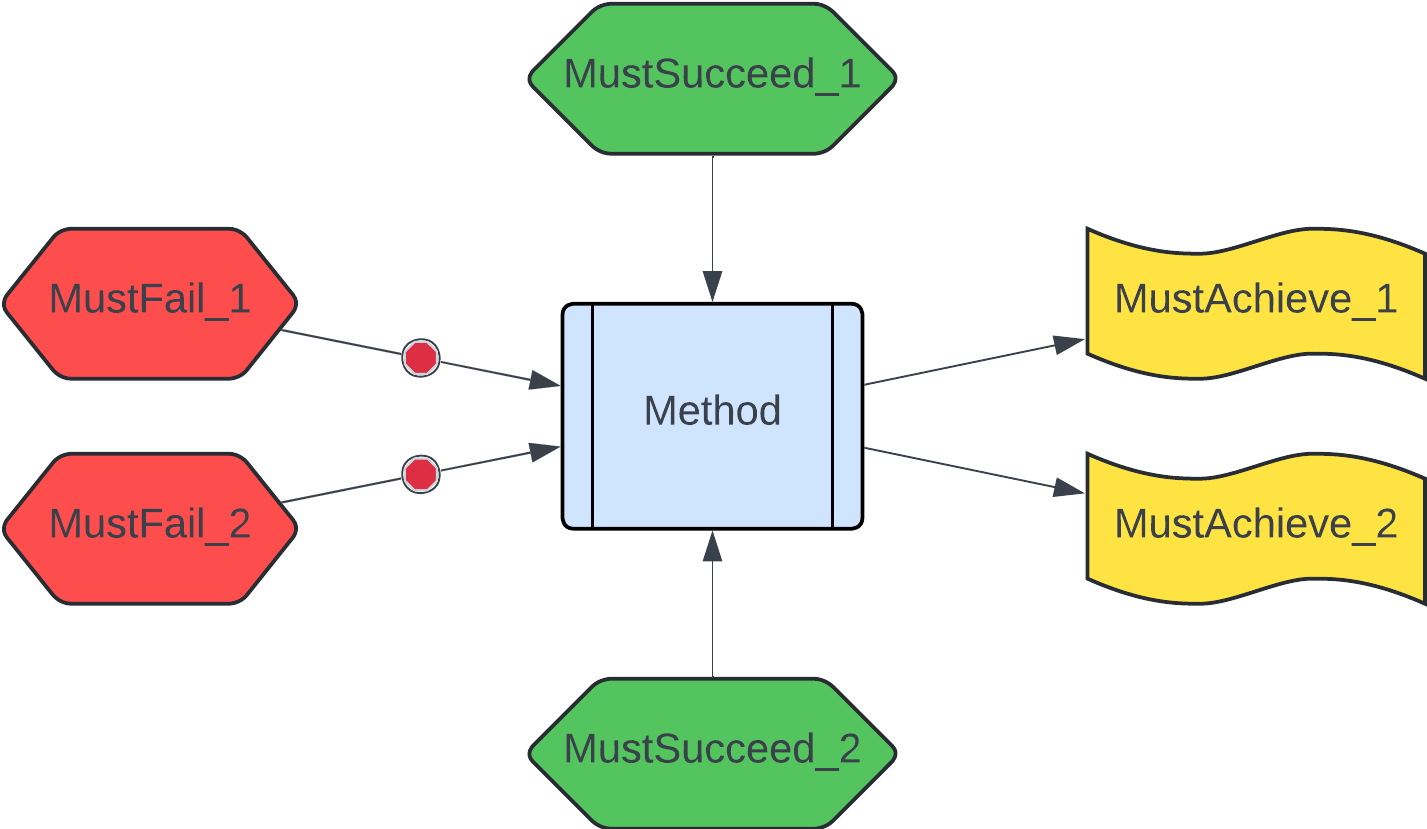
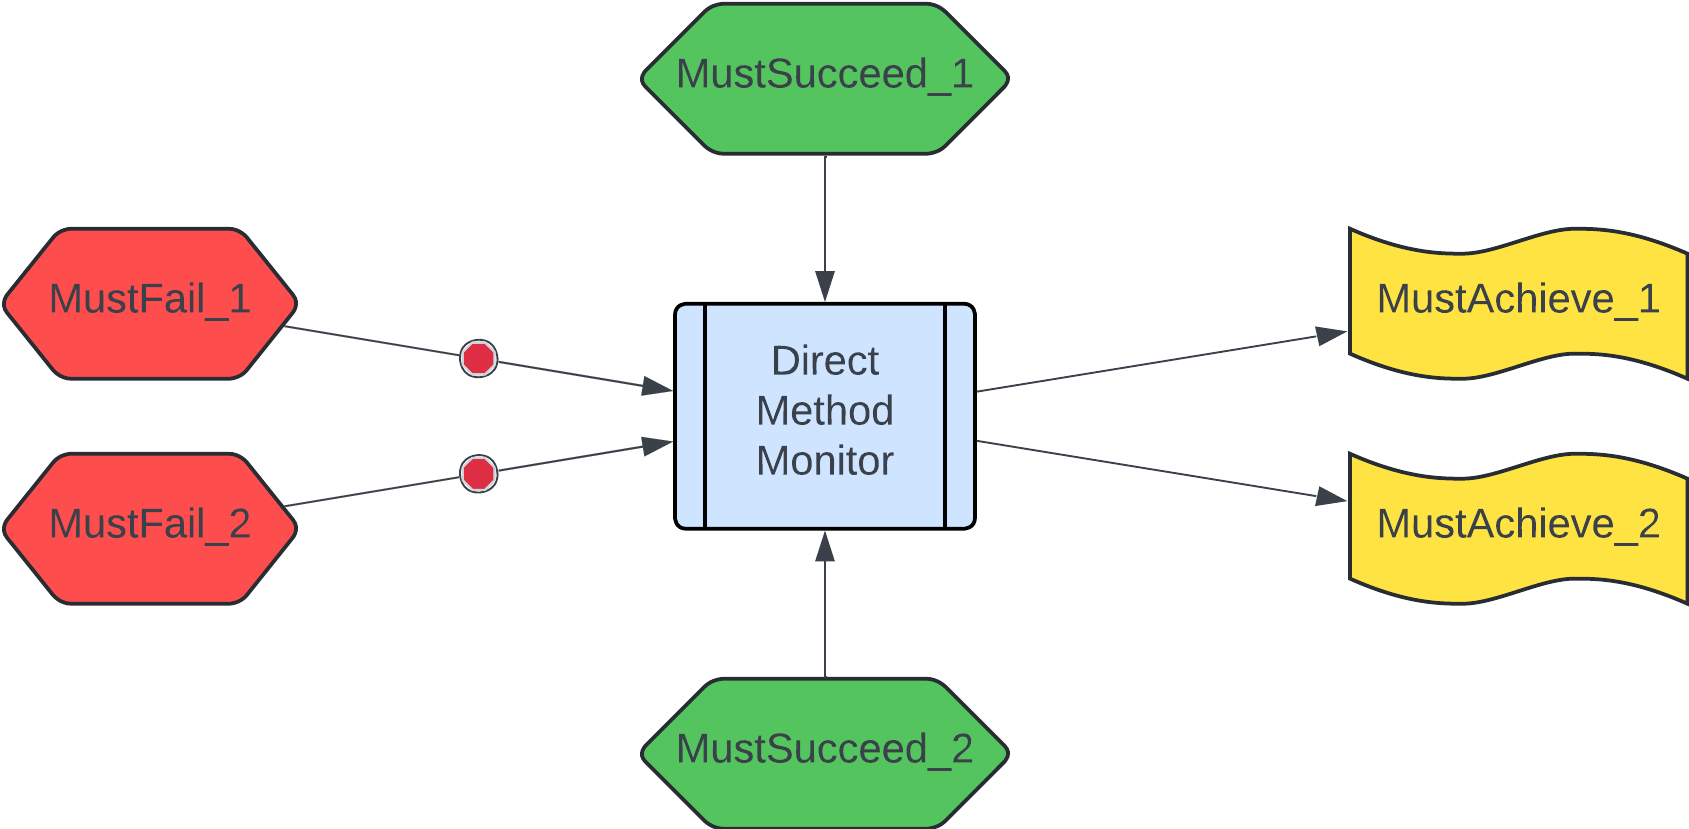
start on reverse monitor specs

diff --git a/doc/case-studies/timelock/README.md b/doc/case-studies/timelock/README.md
@@ -52,11 +52,21 @@ Now, are direct monitor specs enough? Think about it for a sec, before clicking 
 <details>
 <summary> Are direct monitor specs enough?</summary>
 We believe NO! And here is an (incomplete) list of whys:
+
 - A method may have a side effect, which was overlooked by the spec author. E.g. a boolean flag is set, which in another method allows to direct funds to another account.
 - Code evolves, but the spec stays as is; as a result a side effect above is introduced unintentionally, with the stale spec not accounting for it.
 - Internal state component is modified in multiple methods, in different ways. The specification about how the component should be updated is scattered in multiple places, and loopholes may easily creep in.
 - An invariant which is preserved by the method of this contract, is violated by a method from another contract. As no specs are written or monitored for this other contract, no violation is detected.
+
+Thus we proceed to explore _reverse reasoning_.
 </details>
+
+
+### Reverse monitor specs
+
+With reverse reasoning we will try to patch the loopholes that were left by direct monitor specs above. To do so, we start with an _effect_ (state was modified), and go back to its _cause_ (what should have happened taking the effect into account). Here is the corresponding picture which puts a bit of structure into the reverse reasoning.
+
+![Reverse monitor specs](./MonitorSpecs-Reverse.png)
 
 
 [Timelock]: https://github.com/stellar/soroban-examples/blob/v20.0.0/timelock/src/lib.rs
